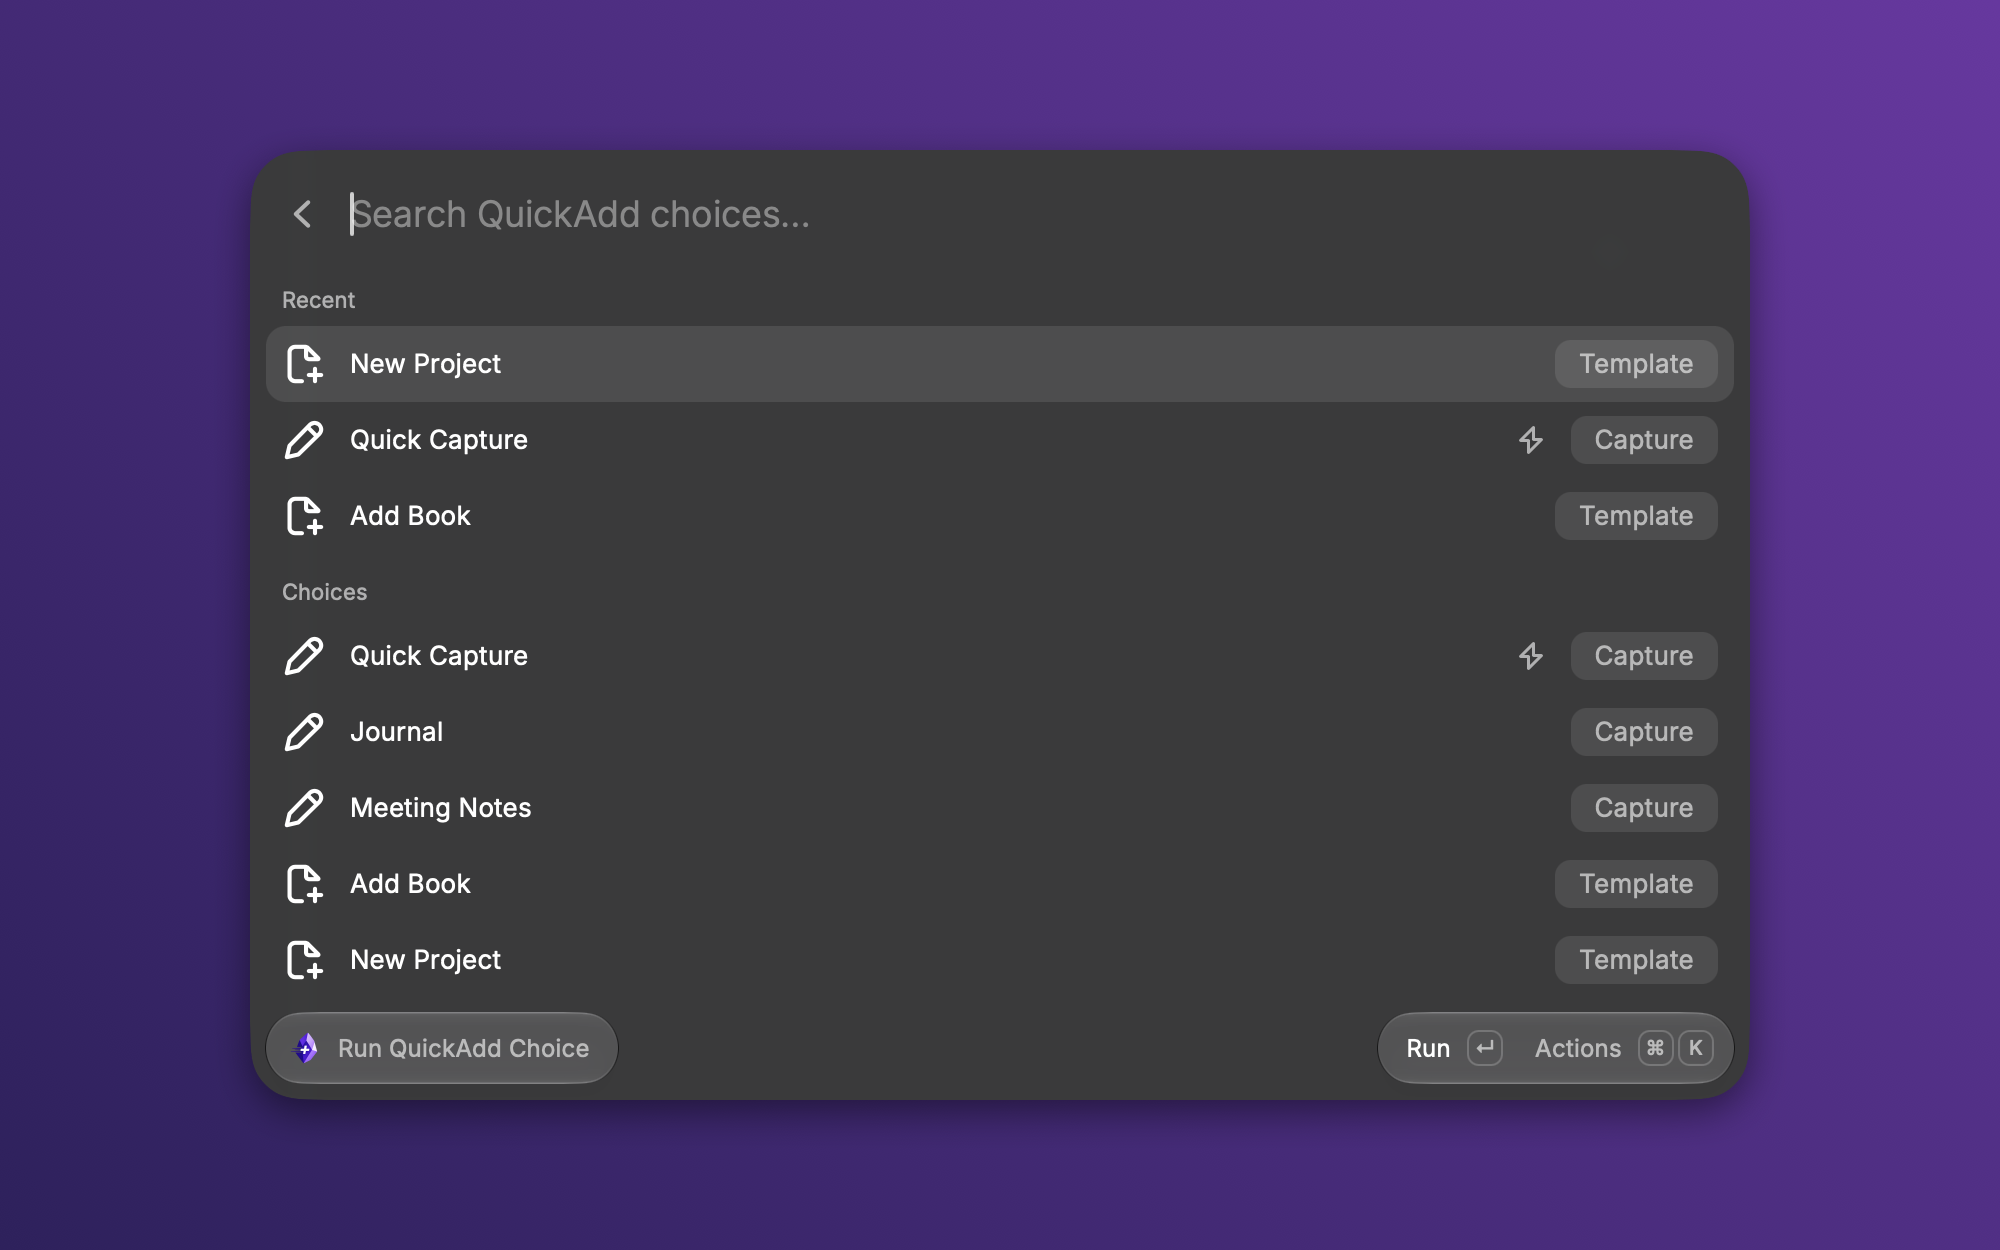
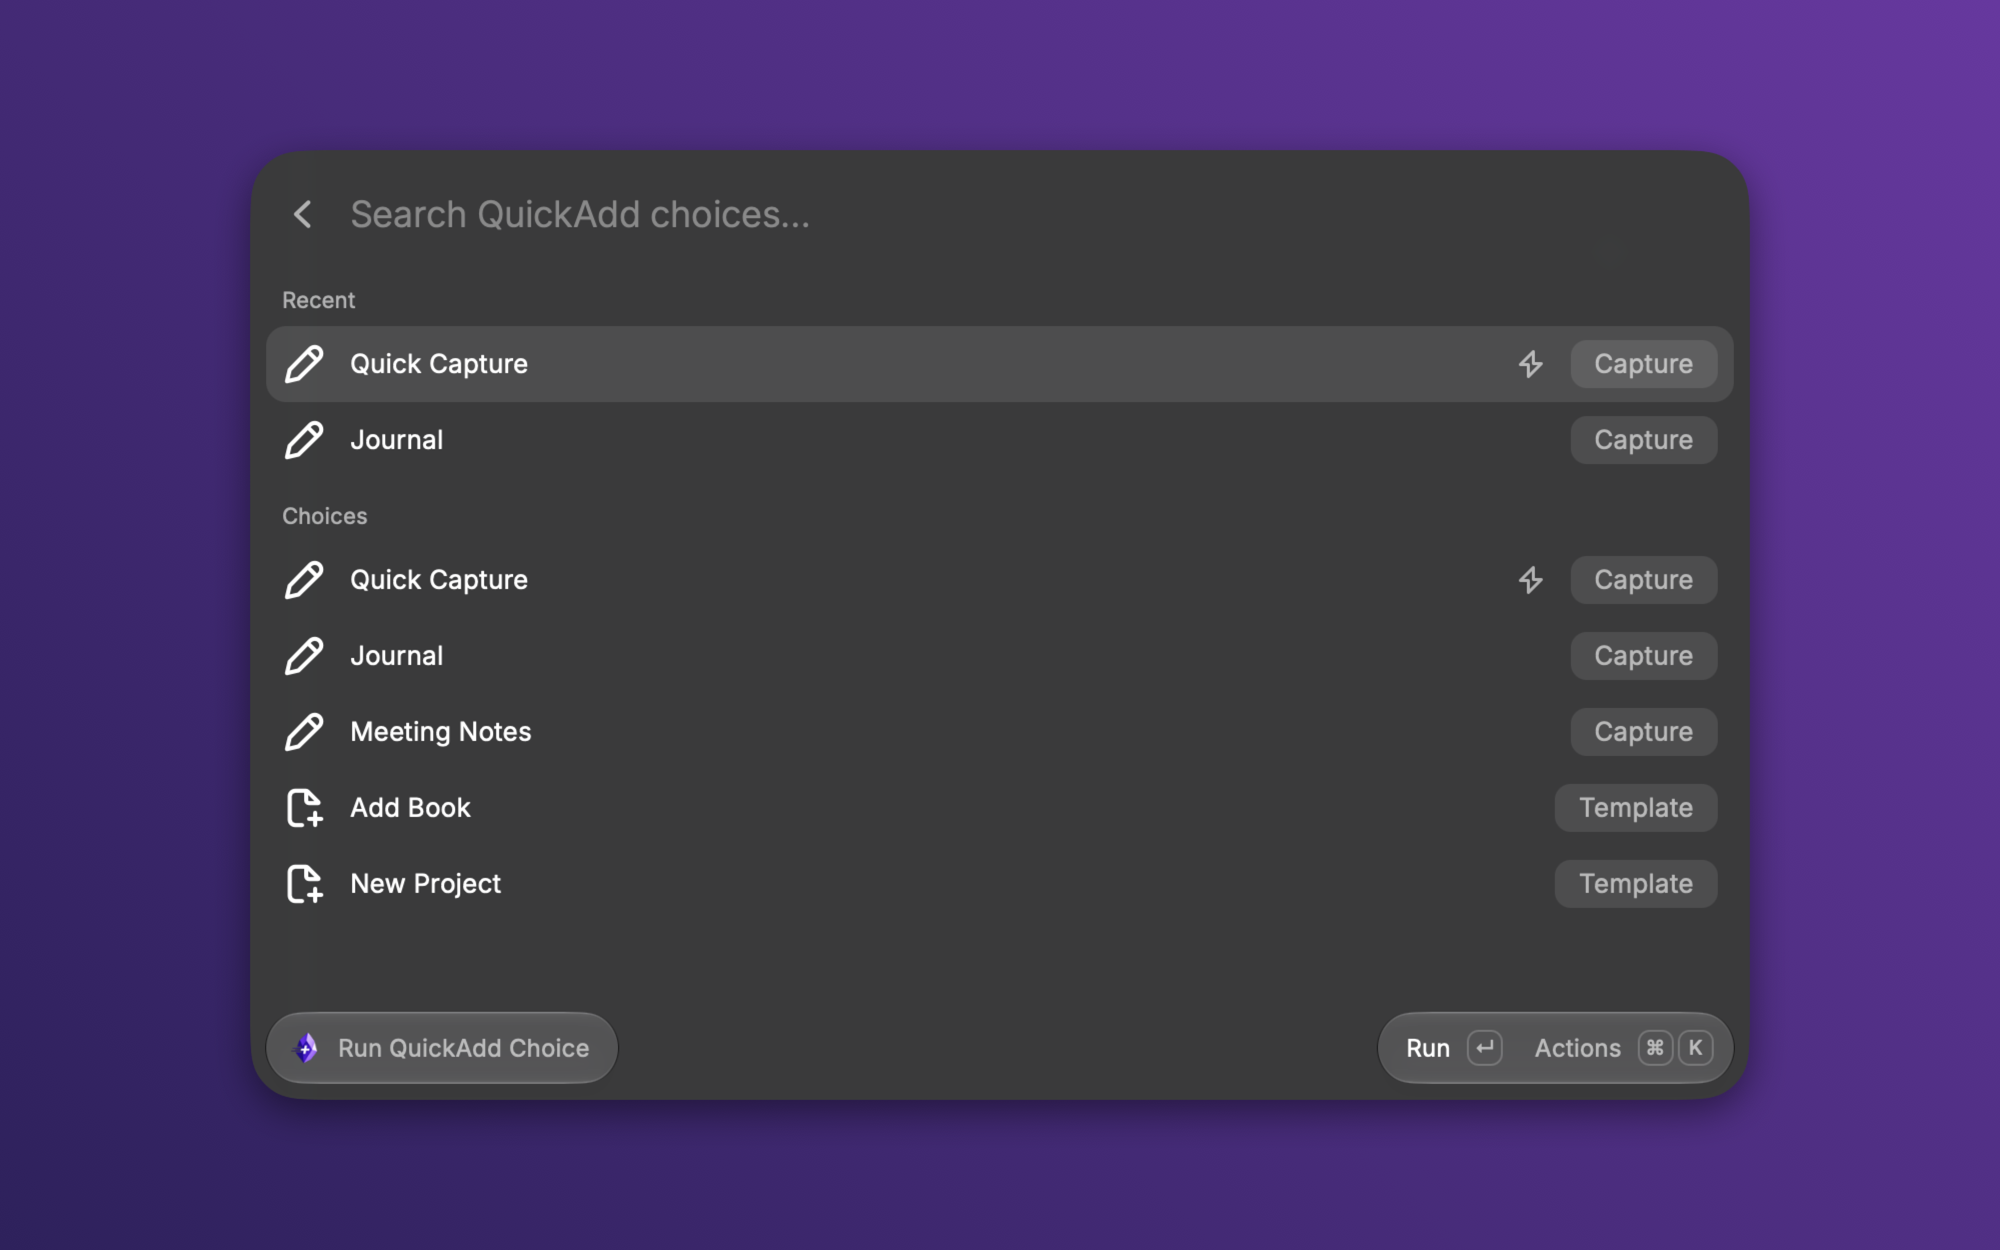
chore(store): changelog for field descriptions, store pictures without the text caret (#25)
The Raycast reviewer noticed the caret blinking in the search bar of
pictures 1 and 3. Both are retaken from the live panel in the demo vault
and laid into the same frame.

diff --git a/extension/CHANGELOG.md b/extension/CHANGELOG.md
@@ -1,5 +1,9 @@
 # QuickAdd for Obsidian Changelog
 
+## [Field descriptions] - {PR_MERGE_DATE}
+
+- A field's description is now visible on the form: as the placeholder of a text or number field that has none, otherwise as a line above the field. Before, it hid behind the field's info icon. Thanks to @ievlevpn.
+
 ## [Initial Version] - 2026-10-13
 
 - Run any QuickAdd choice from Raycast and answer its prompts in native Raycast forms and lists.
